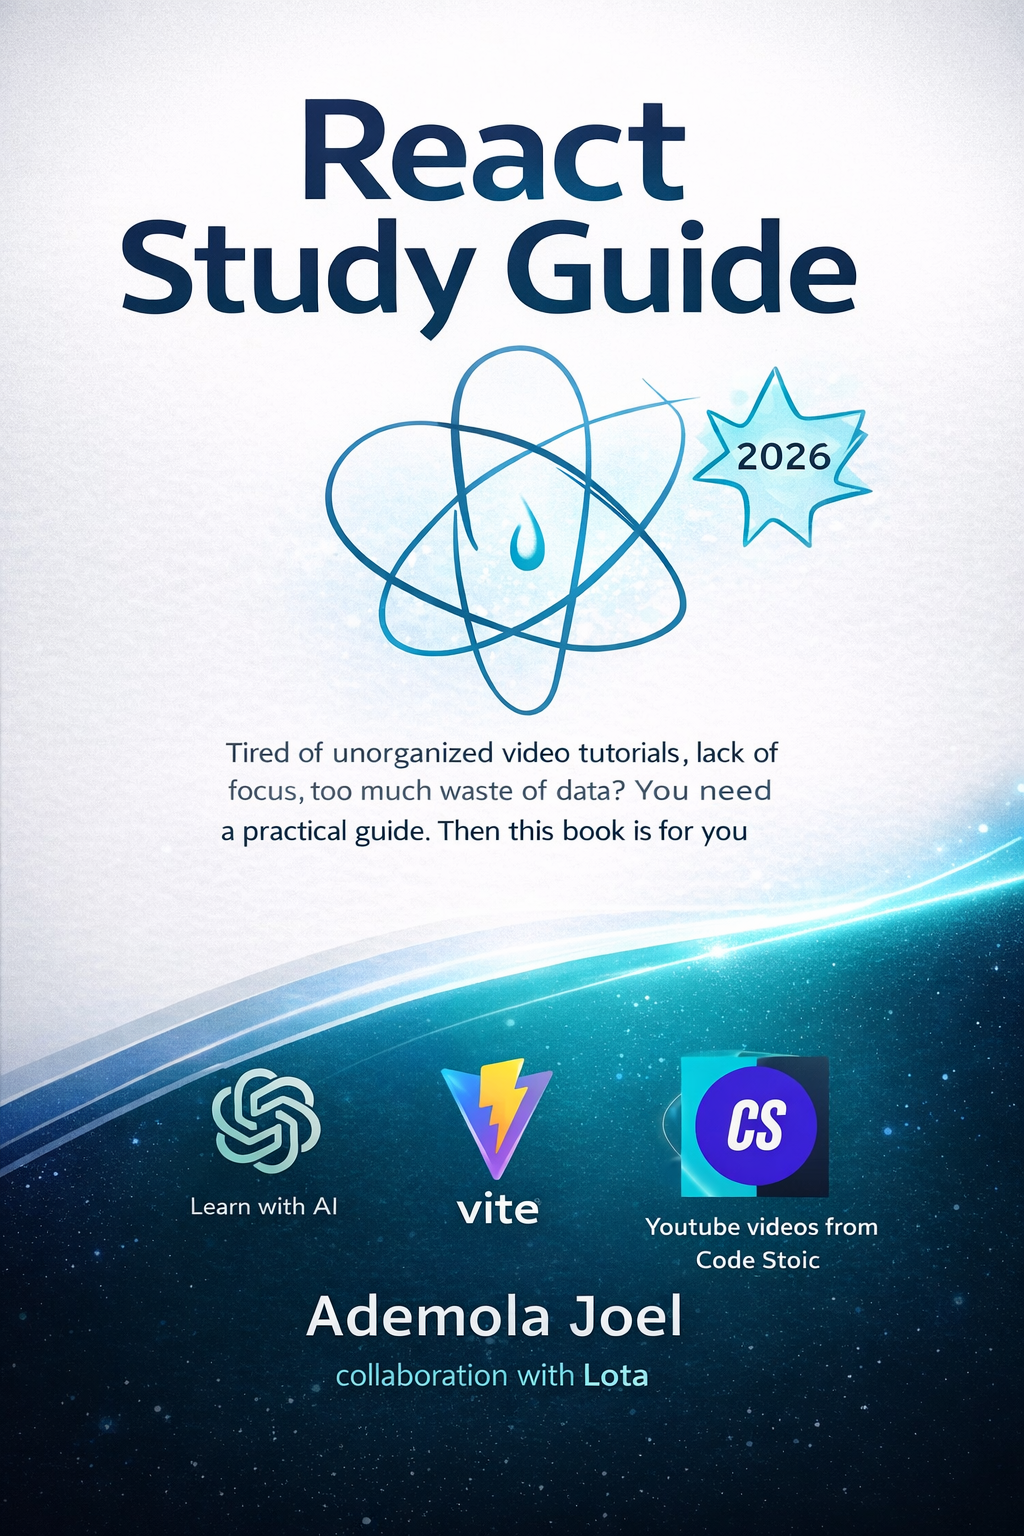
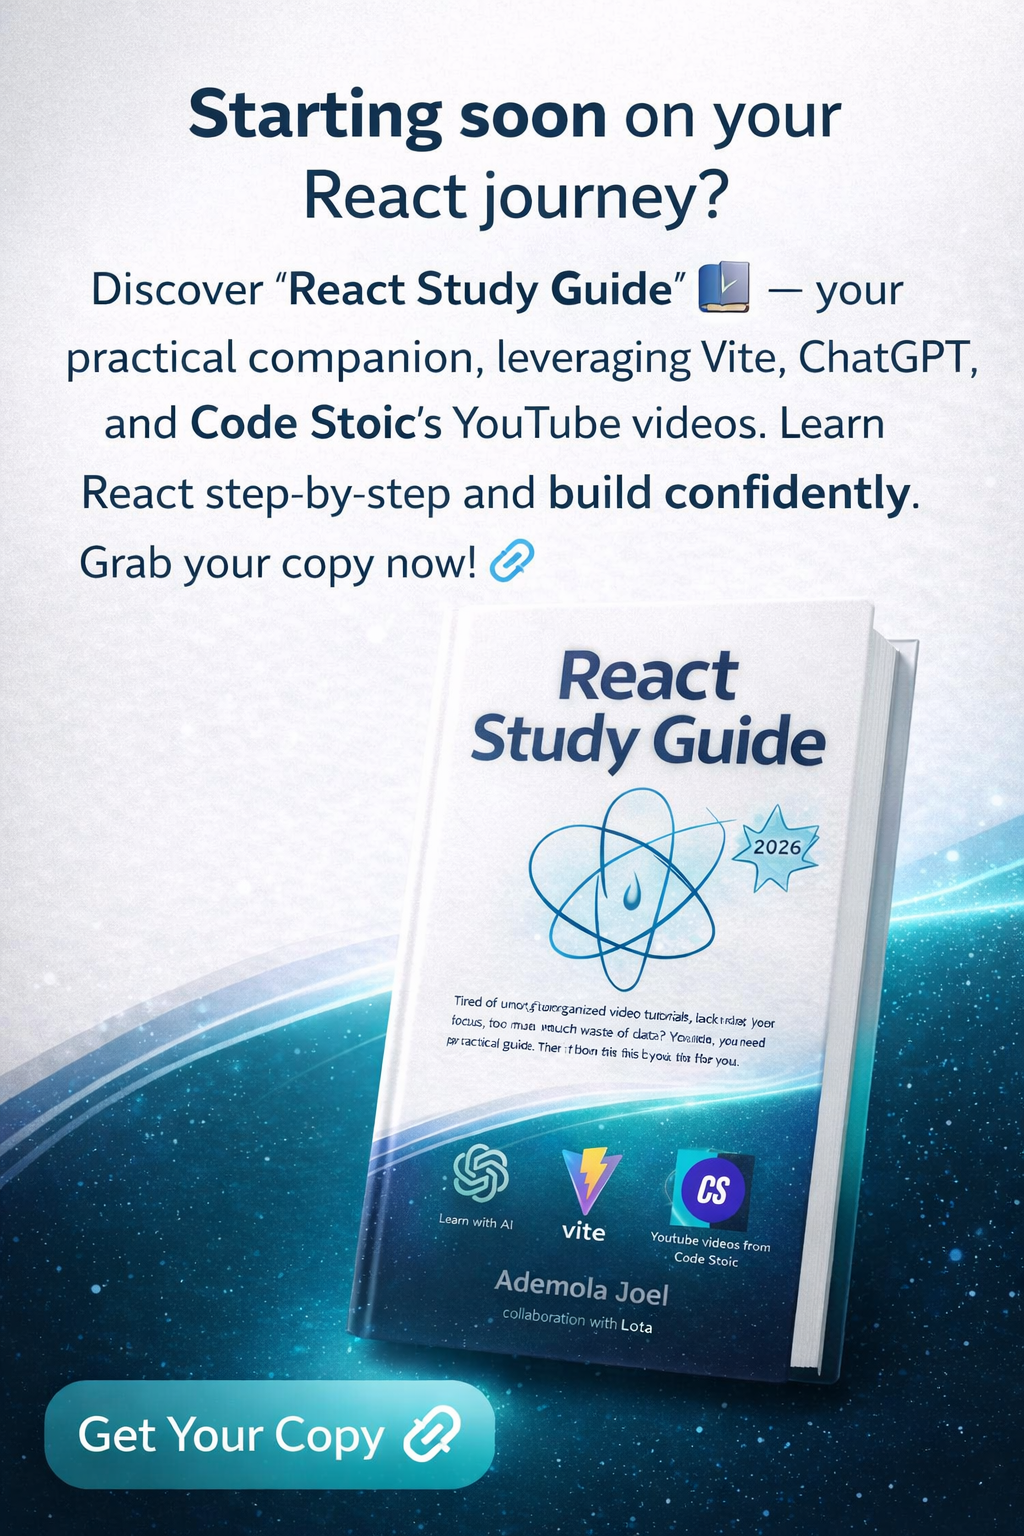
images change

diff --git a/src/components/HeroSlider.jsx b/src/components/HeroSlider.jsx
@@ -5,7 +5,7 @@ const slides = [
   {
     title: "React Study Guide",
     subtitle: "A practical guide to learning React the right way",
-    image: "/images/book.png"
+    image: "/images/book.jpeg"
   },
   {
     title: "Build Faster with Vite",
